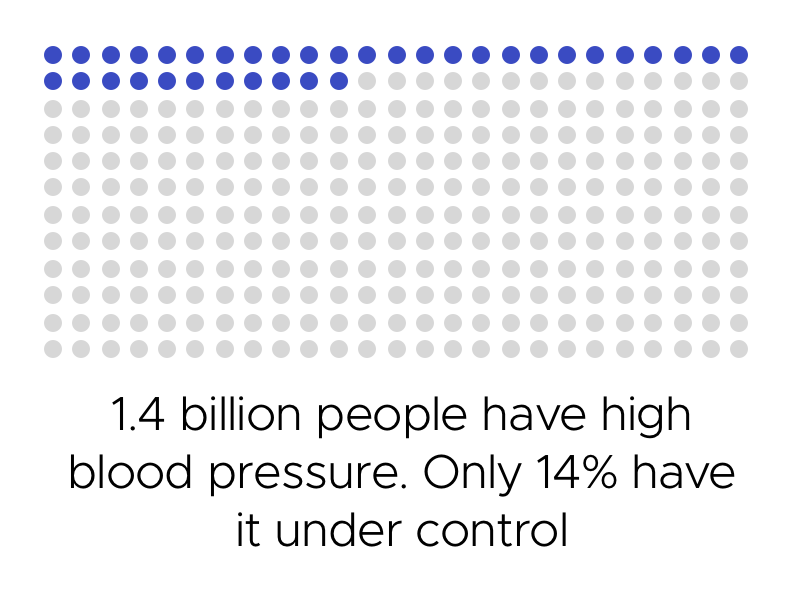
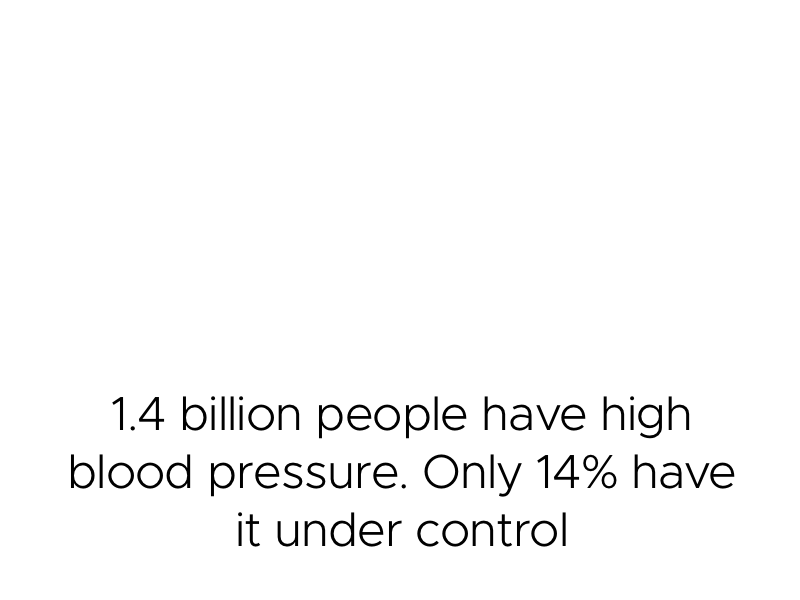
Removed fake graphics.

Changed region(s): [[0.0312, 0.06, 0.9375, 0.6]]

diff --git a/source/stylesheets/site.css.scss b/source/stylesheets/site.css.scss
@@ -88,6 +88,14 @@ a:active {
     color: #000;
 }
 
+a.button {
+    display: inline-block;
+    background: $link-color;
+    color: #fff;
+    padding: 10px 60px;
+    border-radius: 5px;
+}
+
 .footnote {
     font-size: 50%;
     vertical-align: top;
@@ -686,10 +694,11 @@ a.document-link:before {
     .resources .document-link {
         text-align: center;
         display: inline-block;
-        width: 220px;
-        padding: 0 36px 0 0;
+        width: 190px;
+        padding: 0 16px;
         margin-left: -16px;
-        min-height: 240px;
+        min-height: 180px;
+        margin-top: 20px;
         font-size: 85%;
         line-height: 1.3;
         vertical-align: top;
@@ -701,7 +710,7 @@ a.document-link:before {
     }
     
     .resources .document-link img {
-        width: 100%;
+        width: 90%;
     }
     
     body.secondary-nav .main, 
